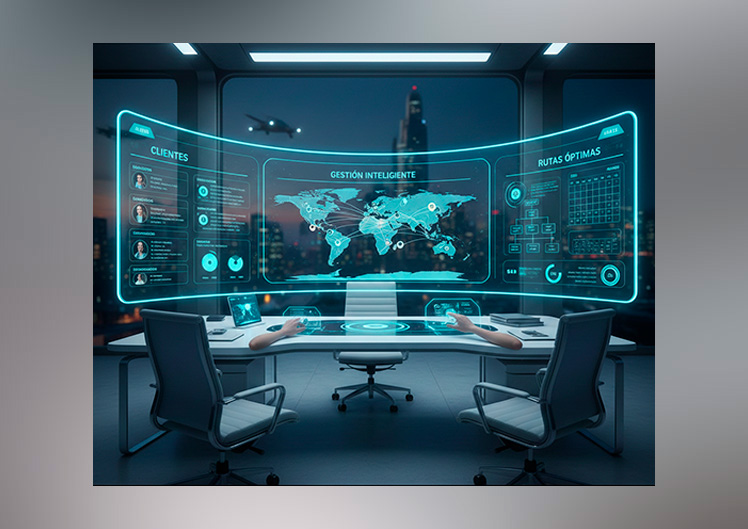
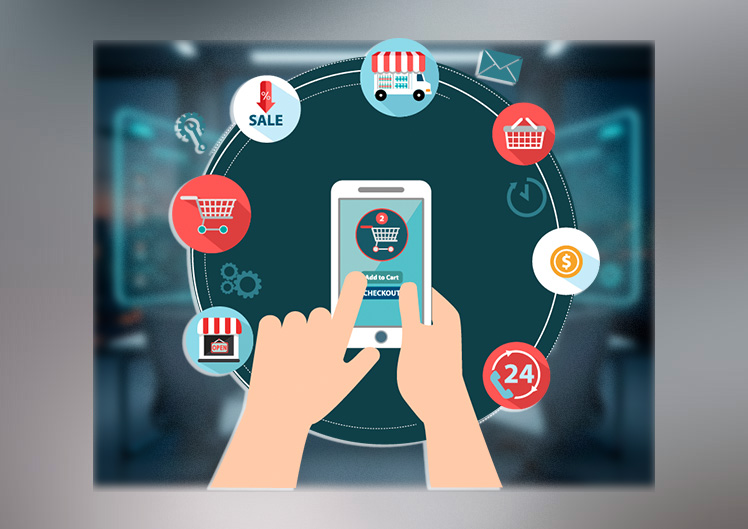
actualizacion imagenes

diff --git a/src/views/Home.vue b/src/views/Home.vue
@@ -58,7 +58,7 @@
           </div>
         </section>
         <section class="spotlight">
-          <div class="image"><img src="@/images/pic03.jpg" alt="" /></div>
+          <div class="image"><img src="@/images/pic06.jpg" alt="" /></div>
           <div class="content">
             <h3>Georreferenciación y Mapas de Calor</h3>
             <blockquote>Visualización en Vivo: Ubicación en tiempo real de distribuidores, clientes y pedidos activos (integración con Google Maps).<br>
@@ -68,7 +68,7 @@
           </div>
         </section>
         <section class="spotlight">
-          <div class="image"><img src="@/images/pic02.jpg" alt="" /></div>
+          <div class="image"><img src="@/images/pic03.jpg" alt="" /></div>
           <div class="content">
             <h3>Gestión de Inventarios</h3>
             <blockquote>Sincronización de Almacenes: Control de stock en tiempo real con alertas de inventario mínimo.<br>
@@ -102,6 +102,11 @@
               <h3>Control de Calidad:</h3>
               <p>Registro de incidencias (si no se puede entregar) y validación de productos entregados.</p>
             </li>
+            <li class="icon solid fa-route">
+              <h3>Gestión de Ventas x día/turnos</h3>
+              <p>Gestiona y controla las ventas sobre la asignación diaria y de turnos  </p>
+            </li>
+
           </ul>
           <h3>App para Distribuidores (Logística y Preventa)</h3>
           <ul class="features">

diff --git a/src/views/Formulario.vue b/src/views/Formulario.vue
@@ -16,7 +16,7 @@ const errorMessage = ref('');
 const successMessage = ref('');
 
 // ⚠ URL DIRECTA al backend Node.js
-//const API_BASE = 'http://localhost:3001/api/';
+const API_BASE = 'http://localhost:3001/api/';
 
 // --- FUNCIÓN PRINCIPAL PARA ENVIAR EL FORMULARIO ---
 const formNovalink = async () => {
@@ -45,7 +45,7 @@ const formNovalink = async () => {
   try {
     // PASO 1: Obtener token del backend
     //console.log('1. Obteniendo token...');
-   // console.log('URL token:', `${API_BASE}auth/token`);
+    console.log('URL token:', `${API_BASE}auth/token`);
     
     const tokenResponse = await fetch(`${API_BASE}auth/token`, {
       method: 'GET',
@@ -340,9 +340,9 @@ if (typeof window !== 'undefined') {
                     type="tel" 
                     name="telefono" 
                     id="telefono" 
-                    placeholder="+591 123456798" 
+              
                     :disabled="isLoading"
-                    required 
+                     
                   />
                 </div>
                 
